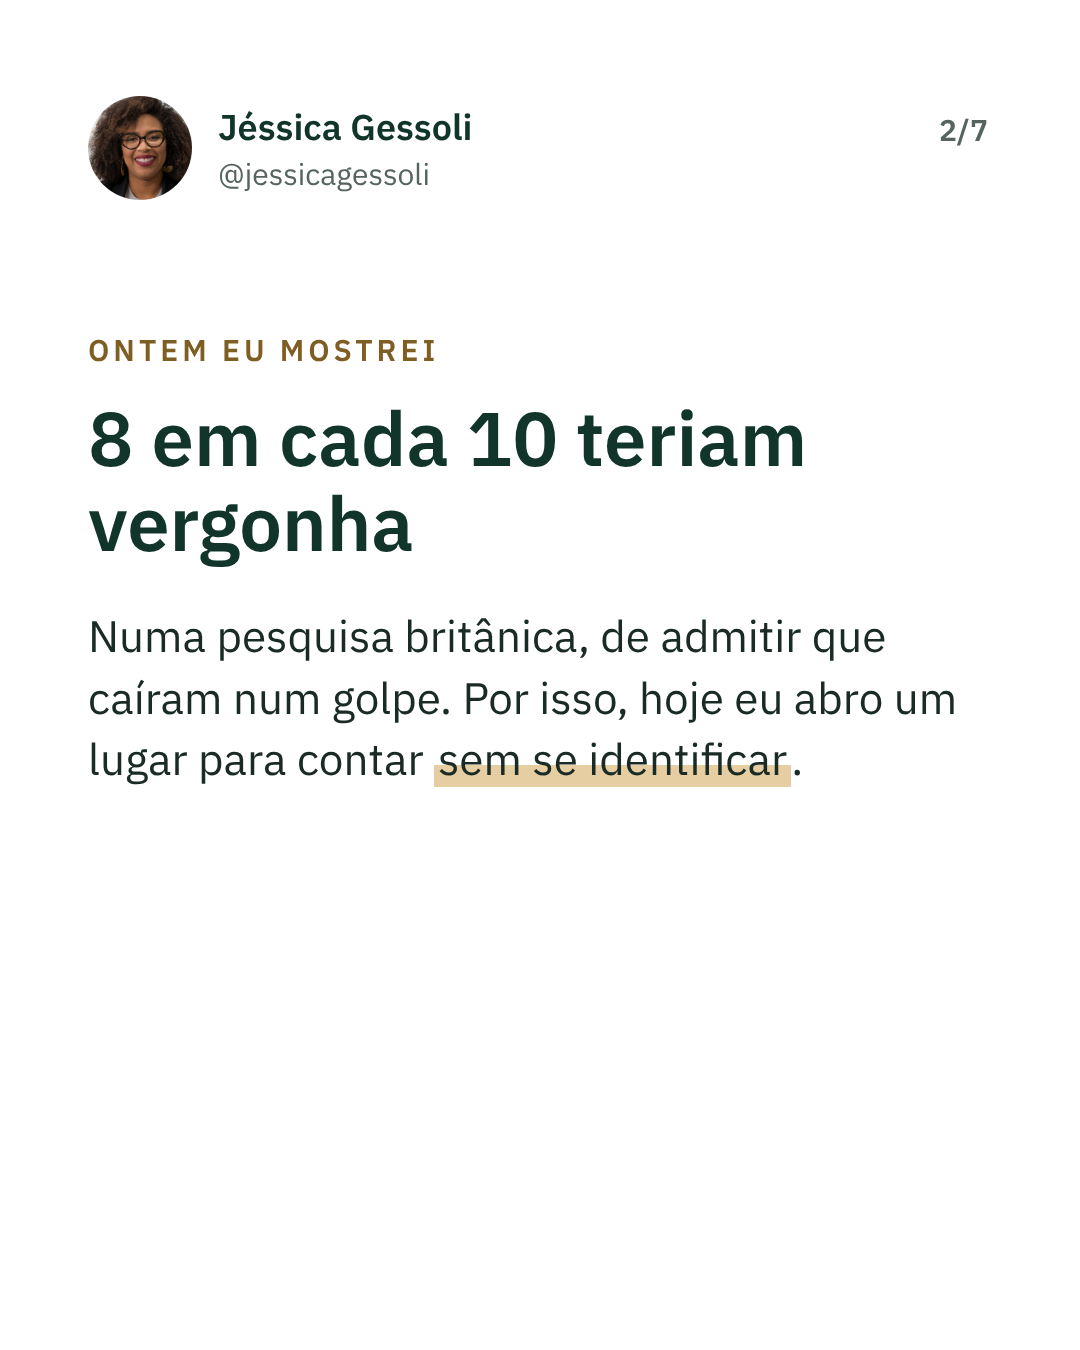
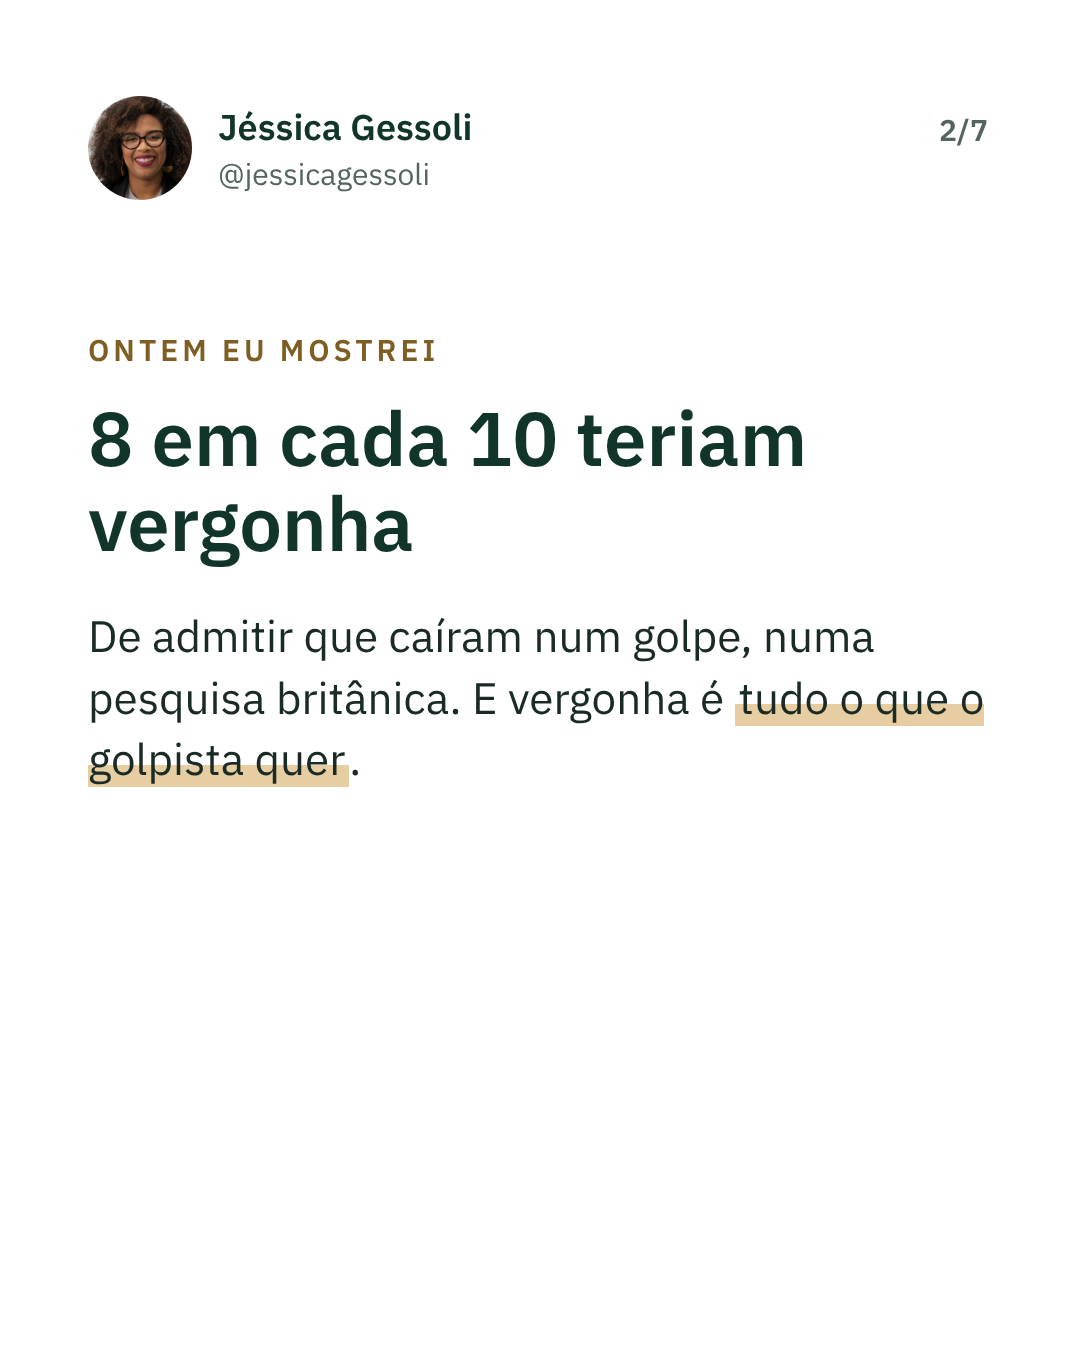
Reescreve 'E escondem' e 'Conte o seu golpe' em tom de conversa (estilo Nathalia Arcuri), mesmos dados e fontes
Claude-Session: https://claude.ai/code/session_014grh3uaSABRrhKanxqxRUA

Changed region(s): [[0.0611, 0.4667, 0.9167, 0.5911]]

diff --git a/campaigns/social/silencio-2026-10/out/2026-10-22-especialistas-caem-e-escondem-6.html b/campaigns/social/silencio-2026-10/out/2026-10-22-especialistas-caem-e-escondem-6.html
@@ -54,4 +54,4 @@ body.s-por{background:#F3F5F2}
 .chk{position:absolute;left:88px;top:860px;display:flex;gap:26px}.chk div{width:92px;height:92px;border:6px solid #D9B76E;border-radius:16px;position:relative}
 .chk div.ok{background:#D9B76E}.chk div.ok:after{content:"";position:absolute;left:28px;top:8px;width:22px;height:46px;border:solid #12352B;border-width:0 10px 10px 0;transform:rotate(45deg)}
 body.s-lat{background:#D9B76E;color:#12352B}.s-lat .at,.s-lat .pg{color:#12352B;opacity:.75}.s-lat mark{background:none;color:#12352B;text-decoration:underline;text-decoration-thickness:8px;text-underline-offset:14px;padding:0}.s-lat .qm,.s-lat .qa{color:#12352B}
-</style></head><body class=""><div class="hdr"><div class="av"></div><div><div class="nm">Jéssica Gessoli</div><div class="at">@jessicagessoli</div></div></div><div class="pg">6/7</div><div class="box"><div class="eb">COMO QUEBRAR O SILÊNCIO</div><div class="tt">Caiu? Faça isto no mesmo dia</div><ol><li>Conte para alguém de confiança.</li><li>Avise o banco e faça boletim de ocorrência.</li><li>Na equipe: quem avisa rápido não é punido.</li><li>Compartilhe o roteiro do golpe, não a culpa.</li></ol></div></body></html>
+</style></head><body class=""><div class="hdr"><div class="av"></div><div><div class="nm">Jéssica Gessoli</div><div class="at">@jessicagessoli</div></div></div><div class="pg">6/7</div><div class="box"><div class="eb">CAIU? FAZ ISSO NO MESMO DIA</div><div class="tt">Sem vergonha e sem demora</div><ol><li>Conta pra alguém de confiança.</li><li>Avisa o banco e faz o boletim de ocorrência.</li><li>Na equipe: quem avisa rápido não leva bronca.</li><li>Espalha o roteiro do golpe, não a culpa.</li></ol></div></body></html>

diff --git a/campaigns/social/conte-seu-golpe-2026-10/out/2026-10-23-conte-o-seu-golpe-1.html b/campaigns/social/conte-seu-golpe-2026-10/out/2026-10-23-conte-o-seu-golpe-1.html
@@ -54,4 +54,4 @@ body.s-por{background:#F3F5F2}
 .chk{position:absolute;left:88px;top:860px;display:flex;gap:26px}.chk div{width:92px;height:92px;border:6px solid #D9B76E;border-radius:16px;position:relative}
 .chk div.ok{background:#D9B76E}.chk div.ok:after{content:"";position:absolute;left:28px;top:8px;width:22px;height:46px;border:solid #12352B;border-width:0 10px 10px 0;transform:rotate(45deg)}
 body.s-lat{background:#D9B76E;color:#12352B}.s-lat .at,.s-lat .pg{color:#12352B;opacity:.75}.s-lat mark{background:none;color:#12352B;text-decoration:underline;text-decoration-thickness:8px;text-underline-offset:14px;padding:0}.s-lat .qm,.s-lat .qa{color:#12352B}
-</style></head><body class="cover s-por"><div class="foto"></div><div class="hdr"><div class="av"></div><div><div class="nm">Jéssica Gessoli</div><div class="at">@jessicagessoli</div></div></div><div class="pg">1/7</div><div class="tag">ESPECIALISTAS TAMBÉM CAEM</div><h1 style="width:640px;font-size:100px">Você já caiu num golpe? <mark>Conte o seu.</mark></h1><div class="cta" style="width:340px;bottom:120px;font-size:34px;line-height:1.3">Sem nome. Sem julgamento. Para proteger o próximo.</div></body></html>
+</style></head><body class="cover s-por"><div class="foto"></div><div class="hdr"><div class="av"></div><div><div class="nm">Jéssica Gessoli</div><div class="at">@jessicagessoli</div></div></div><div class="pg">1/7</div><div class="tag">ESPECIALISTAS TAMBÉM CAEM</div><h1 style="width:640px;font-size:100px">Já caiu num golpe? <mark>Então me conta.</mark></h1><div class="cta" style="width:340px;bottom:120px;font-size:34px;line-height:1.3">Sem nome. Sem julgamento. Pra proteger o próximo.</div></body></html>

diff --git a/campaigns/social/silencio-2026-10/out/2026-10-22-especialistas-caem-e-escondem-7.html b/campaigns/social/silencio-2026-10/out/2026-10-22-especialistas-caem-e-escondem-7.html
@@ -54,4 +54,4 @@ body.s-por{background:#F3F5F2}
 .chk{position:absolute;left:88px;top:860px;display:flex;gap:26px}.chk div{width:92px;height:92px;border:6px solid #D9B76E;border-radius:16px;position:relative}
 .chk div.ok{background:#D9B76E}.chk div.ok:after{content:"";position:absolute;left:28px;top:8px;width:22px;height:46px;border:solid #12352B;border-width:0 10px 10px 0;transform:rotate(45deg)}
 body.s-lat{background:#D9B76E;color:#12352B}.s-lat .at,.s-lat .pg{color:#12352B;opacity:.75}.s-lat mark{background:none;color:#12352B;text-decoration:underline;text-decoration-thickness:8px;text-underline-offset:14px;padding:0}.s-lat .qm,.s-lat .qa{color:#12352B}
-</style></head><body class="dark"><div class="hdr"><div class="av"></div><div><div class="nm">Jéssica Gessoli</div><div class="at">@jessicagessoli</div></div></div><div class="pg">7/7</div><div class="box"><div class="eb">POR ISSO EU CONTEI</div><div class="tt">Quem esconde protege a própria imagem. <mark>Quem conta protege os outros.</mark></div><div class="bd">Amanhã eu abro um canal para você contar o seu, sem se identificar. Salva e manda para quem já caiu e nunca contou.</div></div></body></html>
+</style></head><body class="dark"><div class="hdr"><div class="av"></div><div><div class="nm">Jéssica Gessoli</div><div class="at">@jessicagessoli</div></div></div><div class="pg">7/7</div><div class="box"><div class="eb">VERGONHA NÃO DEVOLVE DINHEIRO</div><div class="tt">Quem esconde protege a própria imagem. <mark>Quem conta protege os outros.</mark></div><div class="bd">Amanhã eu abro um canal pra você contar o seu, sem se identificar. Salva e manda pra quem já caiu e nunca contou.</div></div></body></html>

diff --git a/campaigns/social/silencio-2026-10/out/2026-10-22-especialistas-caem-e-escondem-1.html b/campaigns/social/silencio-2026-10/out/2026-10-22-especialistas-caem-e-escondem-1.html
@@ -54,4 +54,4 @@ body.s-por{background:#F3F5F2}
 .chk{position:absolute;left:88px;top:860px;display:flex;gap:26px}.chk div{width:92px;height:92px;border:6px solid #D9B76E;border-radius:16px;position:relative}
 .chk div.ok{background:#D9B76E}.chk div.ok:after{content:"";position:absolute;left:28px;top:8px;width:22px;height:46px;border:solid #12352B;border-width:0 10px 10px 0;transform:rotate(45deg)}
 body.s-lat{background:#D9B76E;color:#12352B}.s-lat .at,.s-lat .pg{color:#12352B;opacity:.75}.s-lat mark{background:none;color:#12352B;text-decoration:underline;text-decoration-thickness:8px;text-underline-offset:14px;padding:0}.s-lat .qm,.s-lat .qa{color:#12352B}
-</style></head><body class="cover s-por"><div class="foto"></div><div class="hdr"><div class="av"></div><div><div class="nm">Jéssica Gessoli</div><div class="at">@jessicagessoli</div></div></div><div class="pg">1/7</div><div class="tag">ESPECIALISTAS TAMBÉM CAEM</div><h1 style="width:640px;font-size:100px">Especialistas também caem. <mark>E escondem.</mark></h1><div class="cta" style="width:340px;bottom:120px;font-size:34px;line-height:1.3">Eu escolhi contar. Este é o porquê.</div></body></html>
+</style></head><body class="cover s-por"><div class="foto"></div><div class="hdr"><div class="av"></div><div><div class="nm">Jéssica Gessoli</div><div class="at">@jessicagessoli</div></div></div><div class="pg">1/7</div><div class="tag">ESPECIALISTAS TAMBÉM CAEM</div><h1 style="width:640px;font-size:100px">Especialistas também caem. <mark>E escondem.</mark></h1><div class="cta" style="width:340px;bottom:120px;font-size:34px;line-height:1.3">Eu também pensei em esconder o meu. Bora falar disso?</div></body></html>

diff --git a/campaigns/social/conte-seu-golpe-2026-10/out/2026-10-23-conte-o-seu-golpe-5.html b/campaigns/social/conte-seu-golpe-2026-10/out/2026-10-23-conte-o-seu-golpe-5.html
@@ -54,4 +54,4 @@ body.s-por{background:#F3F5F2}
 .chk{position:absolute;left:88px;top:860px;display:flex;gap:26px}.chk div{width:92px;height:92px;border:6px solid #D9B76E;border-radius:16px;position:relative}
 .chk div.ok{background:#D9B76E}.chk div.ok:after{content:"";position:absolute;left:28px;top:8px;width:22px;height:46px;border:solid #12352B;border-width:0 10px 10px 0;transform:rotate(45deg)}
 body.s-lat{background:#D9B76E;color:#12352B}.s-lat .at,.s-lat .pg{color:#12352B;opacity:.75}.s-lat mark{background:none;color:#12352B;text-decoration:underline;text-decoration-thickness:8px;text-underline-offset:14px;padding:0}.s-lat .qm,.s-lat .qa{color:#12352B}
-</style></head><body class=""><div class="hdr"><div class="av"></div><div><div class="nm">Jéssica Gessoli</div><div class="at">@jessicagessoli</div></div></div><div class="pg">5/7</div><div class="box"><div class="eb">COMO FUNCIONA</div><div class="tt">Conte o seu golpe</div><ol><li>Leva poucos minutos e não pede o seu nome.</li><li>Você escolhe se o relato pode virar post.</li><li>Nomes, cidades e valores são trocados.</li><li>Pediu para apagar? Eu apago.</li></ol></div></body></html>
+</style></head><body class=""><div class="hdr"><div class="av"></div><div><div class="nm">Jéssica Gessoli</div><div class="at">@jessicagessoli</div></div></div><div class="pg">5/7</div><div class="box"><div class="eb">FUNCIONA ASSIM</div><div class="tt">Conte o seu golpe</div><ol><li>Leva poucos minutos e não pede o seu nome.</li><li>Você decide se o relato pode virar post.</li><li>Nome, cidade e valor eu troco.</li><li>Quer apagar depois? Eu apago.</li></ol></div></body></html>

diff --git a/campaigns/social/silencio-2026-10/out/2026-10-22-especialistas-caem-e-escondem-4.html b/campaigns/social/silencio-2026-10/out/2026-10-22-especialistas-caem-e-escondem-4.html
@@ -54,4 +54,4 @@ body.s-por{background:#F3F5F2}
 .chk{position:absolute;left:88px;top:860px;display:flex;gap:26px}.chk div{width:92px;height:92px;border:6px solid #D9B76E;border-radius:16px;position:relative}
 .chk div.ok{background:#D9B76E}.chk div.ok:after{content:"";position:absolute;left:28px;top:8px;width:22px;height:46px;border:solid #12352B;border-width:0 10px 10px 0;transform:rotate(45deg)}
 body.s-lat{background:#D9B76E;color:#12352B}.s-lat .at,.s-lat .pg{color:#12352B;opacity:.75}.s-lat mark{background:none;color:#12352B;text-decoration:underline;text-decoration-thickness:8px;text-underline-offset:14px;padding:0}.s-lat .qm,.s-lat .qa{color:#12352B}
-</style></head><body class=""><div class="hdr"><div class="av"></div><div><div class="nm">Jéssica Gessoli</div><div class="at">@jessicagessoli</div></div></div><div class="pg">4/7</div><div class="box"><div class="eb">NAS EMPRESAS</div><div class="tt">O silêncio também vira regra</div><div class="bd">Em 2025, <mark>57,6%</mark> dos profissionais de TI e segurança ouvidos pela Bitdefender disseram que já receberam ordem para manter um incidente em sigilo.</div></div></body></html>
+</style></head><body class=""><div class="hdr"><div class="av"></div><div><div class="nm">Jéssica Gessoli</div><div class="at">@jessicagessoli</div></div></div><div class="pg">4/7</div><div class="box"><div class="eb">NAS EMPRESAS</div><div class="tt">Tem até ordem pra ficar quieto</div><div class="bd">Em 2025, <mark>57,6%</mark> dos profissionais de TI e segurança ouvidos pela Bitdefender disseram que já receberam ordem para manter um incidente em sigilo.</div></div></body></html>

diff --git a/campaigns/social/silencio-2026-10/out/2026-10-22-especialistas-caem-e-escondem-5.html b/campaigns/social/silencio-2026-10/out/2026-10-22-especialistas-caem-e-escondem-5.html
@@ -54,4 +54,4 @@ body.s-por{background:#F3F5F2}
 .chk{position:absolute;left:88px;top:860px;display:flex;gap:26px}.chk div{width:92px;height:92px;border:6px solid #D9B76E;border-radius:16px;position:relative}
 .chk div.ok{background:#D9B76E}.chk div.ok:after{content:"";position:absolute;left:28px;top:8px;width:22px;height:46px;border:solid #12352B;border-width:0 10px 10px 0;transform:rotate(45deg)}
 body.s-lat{background:#D9B76E;color:#12352B}.s-lat .at,.s-lat .pg{color:#12352B;opacity:.75}.s-lat mark{background:none;color:#12352B;text-decoration:underline;text-decoration-thickness:8px;text-underline-offset:14px;padding:0}.s-lat .qm,.s-lat .qa{color:#12352B}
-</style></head><body class=""><div class="hdr"><div class="av"></div><div><div class="nm">Jéssica Gessoli</div><div class="at">@jessicagessoli</div></div></div><div class="pg">5/7</div><div class="box"><div class="eb">A AVIAÇÃO JÁ ENTENDEU</div><div class="tt">Erro contado vira proteção</div><div class="bd">Desde 1976, pilotos e controladores relatam erros à NASA sem medo de punição. Já são <mark>mais de 2,3 milhões</mark> de relatos.</div></div></body></html>
+</style></head><body class=""><div class="hdr"><div class="av"></div><div><div class="nm">Jéssica Gessoli</div><div class="at">@jessicagessoli</div></div></div><div class="pg">5/7</div><div class="box"><div class="eb">IMAGINA SE PILOTO ESCONDESSE ERRO</div><div class="tt">Na aviação, erro contado vira proteção</div><div class="bd">Desde 1976, piloto e controlador contam seus erros pra NASA, sem medo de punição. Já são <mark>mais de 2,3 milhões</mark> de relatos.</div></div></body></html>

diff --git a/campaigns/social/silencio-2026-10/out/2026-10-22-especialistas-caem-e-escondem-3.html b/campaigns/social/silencio-2026-10/out/2026-10-22-especialistas-caem-e-escondem-3.html
@@ -54,4 +54,4 @@ body.s-por{background:#F3F5F2}
 .chk{position:absolute;left:88px;top:860px;display:flex;gap:26px}.chk div{width:92px;height:92px;border:6px solid #D9B76E;border-radius:16px;position:relative}
 .chk div.ok{background:#D9B76E}.chk div.ok:after{content:"";position:absolute;left:28px;top:8px;width:22px;height:46px;border:solid #12352B;border-width:0 10px 10px 0;transform:rotate(45deg)}
 body.s-lat{background:#D9B76E;color:#12352B}.s-lat .at,.s-lat .pg{color:#12352B;opacity:.75}.s-lat mark{background:none;color:#12352B;text-decoration:underline;text-decoration-thickness:8px;text-underline-offset:14px;padding:0}.s-lat .qm,.s-lat .qa{color:#12352B}
-</style></head><body class=""><div class="hdr"><div class="av"></div><div><div class="nm">Jéssica Gessoli</div><div class="at">@jessicagessoli</div></div></div><div class="pg">3/7</div><div class="box"><div class="eb">NÃO É SÓ COM ESPECIALISTA</div><div class="tt">8 em cada 10 teriam vergonha</div><div class="bd">Numa pesquisa britânica de 2020, 80% disseram que teriam vergonha de admitir que caíram num golpe. Só <mark>9%</mark> contariam ao chefe.</div></div></body></html>
+</style></head><body class=""><div class="hdr"><div class="av"></div><div><div class="nm">Jéssica Gessoli</div><div class="at">@jessicagessoli</div></div></div><div class="pg">3/7</div><div class="box"><div class="eb">E NÃO É SÓ ESPECIALISTA</div><div class="tt">8 em cada 10 teriam vergonha</div><div class="bd">Pesquisa britânica de 2020: 80% teriam vergonha de admitir que caíram num golpe. Contar pro chefe? <mark>Só 9%.</mark></div></div></body></html>

diff --git a/campaigns/social/conte-seu-golpe-2026-10/out/2026-10-23-conte-o-seu-golpe-4.html b/campaigns/social/conte-seu-golpe-2026-10/out/2026-10-23-conte-o-seu-golpe-4.html
@@ -54,4 +54,4 @@ body.s-por{background:#F3F5F2}
 .chk{position:absolute;left:88px;top:860px;display:flex;gap:26px}.chk div{width:92px;height:92px;border:6px solid #D9B76E;border-radius:16px;position:relative}
 .chk div.ok{background:#D9B76E}.chk div.ok:after{content:"";position:absolute;left:28px;top:8px;width:22px;height:46px;border:solid #12352B;border-width:0 10px 10px 0;transform:rotate(45deg)}
 body.s-lat{background:#D9B76E;color:#12352B}.s-lat .at,.s-lat .pg{color:#12352B;opacity:.75}.s-lat mark{background:none;color:#12352B;text-decoration:underline;text-decoration-thickness:8px;text-underline-offset:14px;padding:0}.s-lat .qm,.s-lat .qa{color:#12352B}
-</style></head><body class=""><div class="hdr"><div class="av"></div><div><div class="nm">Jéssica Gessoli</div><div class="at">@jessicagessoli</div></div></div><div class="pg">4/7</div><div class="box"><div class="eb">NÃO É SÓ AQUI</div><div class="tt">A Austrália fez disso campanha</div><div class="bd">Em 2024, a semana nacional contra golpes de lá teve um tema: <mark>&quot;Compartilhe uma história, pare um golpe&quot;</mark>.</div></div></body></html>
+</style></head><body class=""><div class="hdr"><div class="av"></div><div><div class="nm">Jéssica Gessoli</div><div class="at">@jessicagessoli</div></div></div><div class="pg">4/7</div><div class="box"><div class="eb">NÃO É INVENÇÃO MINHA</div><div class="tt">A Austrália fez disso campanha</div><div class="bd">Em 2024, a semana nacional contra golpes de lá teve um tema: <mark>&quot;Compartilhe uma história, pare um golpe&quot;</mark>.</div></div></body></html>

diff --git a/campaigns/social/conte-seu-golpe-2026-10/out/2026-10-23-conte-o-seu-golpe-6.html b/campaigns/social/conte-seu-golpe-2026-10/out/2026-10-23-conte-o-seu-golpe-6.html
@@ -54,4 +54,4 @@ body.s-por{background:#F3F5F2}
 .chk{position:absolute;left:88px;top:860px;display:flex;gap:26px}.chk div{width:92px;height:92px;border:6px solid #D9B76E;border-radius:16px;position:relative}
 .chk div.ok{background:#D9B76E}.chk div.ok:after{content:"";position:absolute;left:28px;top:8px;width:22px;height:46px;border:solid #12352B;border-width:0 10px 10px 0;transform:rotate(45deg)}
 body.s-lat{background:#D9B76E;color:#12352B}.s-lat .at,.s-lat .pg{color:#12352B;opacity:.75}.s-lat mark{background:none;color:#12352B;text-decoration:underline;text-decoration-thickness:8px;text-underline-offset:14px;padding:0}.s-lat .qm,.s-lat .qa{color:#12352B}
-</style></head><body class=""><div class="hdr"><div class="av"></div><div><div class="nm">Jéssica Gessoli</div><div class="at">@jessicagessoli</div></div></div><div class="pg">6/7</div><div class="box"><div class="eb">O QUE NUNCA VAI APARECER</div><div class="tt">O passo a passo do golpista</div><div class="bd">Os posts mostram os sinais de alerta, não o roteiro completo. E o formulário <mark>nunca pede</mark> CPF, telefone ou dados de banco.</div></div></body></html>
+</style></head><body class=""><div class="hdr"><div class="av"></div><div><div class="nm">Jéssica Gessoli</div><div class="at">@jessicagessoli</div></div></div><div class="pg">6/7</div><div class="box"><div class="eb">O QUE NUNCA VAI APARECER</div><div class="tt">O passo a passo do golpista</div><div class="bd">Aqui a gente mostra os sinais de alerta. E o formulário <mark>nunca pede</mark> CPF, telefone ou dado de banco.</div></div></body></html>

diff --git a/campaigns/social/conte-seu-golpe-2026-10/out/2026-10-23-conte-o-seu-golpe-2.html b/campaigns/social/conte-seu-golpe-2026-10/out/2026-10-23-conte-o-seu-golpe-2.html
@@ -54,4 +54,4 @@ body.s-por{background:#F3F5F2}
 .chk{position:absolute;left:88px;top:860px;display:flex;gap:26px}.chk div{width:92px;height:92px;border:6px solid #D9B76E;border-radius:16px;position:relative}
 .chk div.ok{background:#D9B76E}.chk div.ok:after{content:"";position:absolute;left:28px;top:8px;width:22px;height:46px;border:solid #12352B;border-width:0 10px 10px 0;transform:rotate(45deg)}
 body.s-lat{background:#D9B76E;color:#12352B}.s-lat .at,.s-lat .pg{color:#12352B;opacity:.75}.s-lat mark{background:none;color:#12352B;text-decoration:underline;text-decoration-thickness:8px;text-underline-offset:14px;padding:0}.s-lat .qm,.s-lat .qa{color:#12352B}
-</style></head><body class=""><div class="hdr"><div class="av"></div><div><div class="nm">Jéssica Gessoli</div><div class="at">@jessicagessoli</div></div></div><div class="pg">2/7</div><div class="box"><div class="eb">ONTEM EU MOSTREI</div><div class="tt">8 em cada 10 teriam vergonha</div><div class="bd">Numa pesquisa britânica, de admitir que caíram num golpe. Por isso, hoje eu abro um lugar para contar <mark>sem se identificar</mark>.</div></div></body></html>
+</style></head><body class=""><div class="hdr"><div class="av"></div><div><div class="nm">Jéssica Gessoli</div><div class="at">@jessicagessoli</div></div></div><div class="pg">2/7</div><div class="box"><div class="eb">ONTEM EU MOSTREI</div><div class="tt">8 em cada 10 teriam vergonha</div><div class="bd">De admitir que caíram num golpe, numa pesquisa britânica. E vergonha é <mark>tudo o que o golpista quer</mark>.</div></div></body></html>

diff --git a/campaigns/social/conte-seu-golpe-2026-10/out/2026-10-23-conte-o-seu-golpe-3.html b/campaigns/social/conte-seu-golpe-2026-10/out/2026-10-23-conte-o-seu-golpe-3.html
@@ -54,4 +54,4 @@ body.s-por{background:#F3F5F2}
 .chk{position:absolute;left:88px;top:860px;display:flex;gap:26px}.chk div{width:92px;height:92px;border:6px solid #D9B76E;border-radius:16px;position:relative}
 .chk div.ok{background:#D9B76E}.chk div.ok:after{content:"";position:absolute;left:28px;top:8px;width:22px;height:46px;border:solid #12352B;border-width:0 10px 10px 0;transform:rotate(45deg)}
 body.s-lat{background:#D9B76E;color:#12352B}.s-lat .at,.s-lat .pg{color:#12352B;opacity:.75}.s-lat mark{background:none;color:#12352B;text-decoration:underline;text-decoration-thickness:8px;text-underline-offset:14px;padding:0}.s-lat .qm,.s-lat .qa{color:#12352B}
-</style></head><body class=""><div class="hdr"><div class="av"></div><div><div class="nm">Jéssica Gessoli</div><div class="at">@jessicagessoli</div></div></div><div class="pg">3/7</div><div class="box"><div class="eb">POR QUE CONTAR</div><div class="tt">Golpe contado vira alerta</div><div class="bd">O golpista conta com o seu silêncio. Cada história contada mostra o roteiro para quem <mark>ainda não recebeu</mark> a mensagem.</div></div></body></html>
+</style></head><body class=""><div class="hdr"><div class="av"></div><div><div class="nm">Jéssica Gessoli</div><div class="at">@jessicagessoli</div></div></div><div class="pg">3/7</div><div class="box"><div class="eb">POR QUE CONTAR</div><div class="tt">Golpe contado vira alerta</div><div class="bd">Enquanto a gente fica quieto, o golpista usa o mesmo roteiro com o próximo. Contou? <mark>Avisou um monte de gente.</mark></div></div></body></html>
